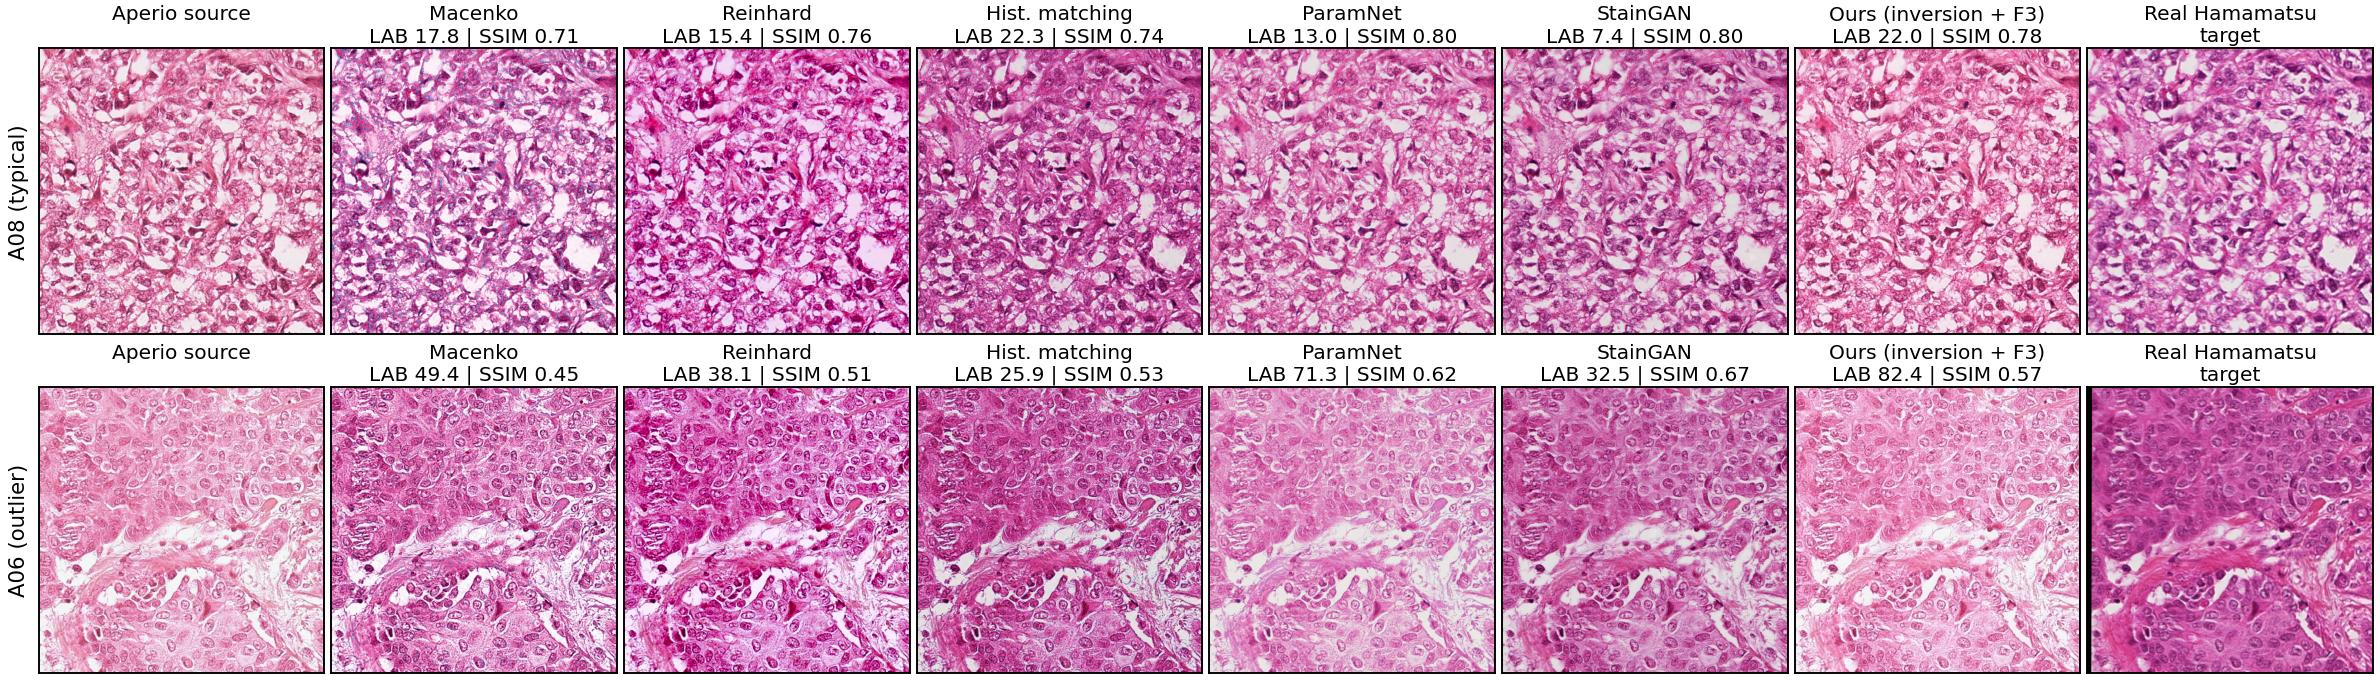
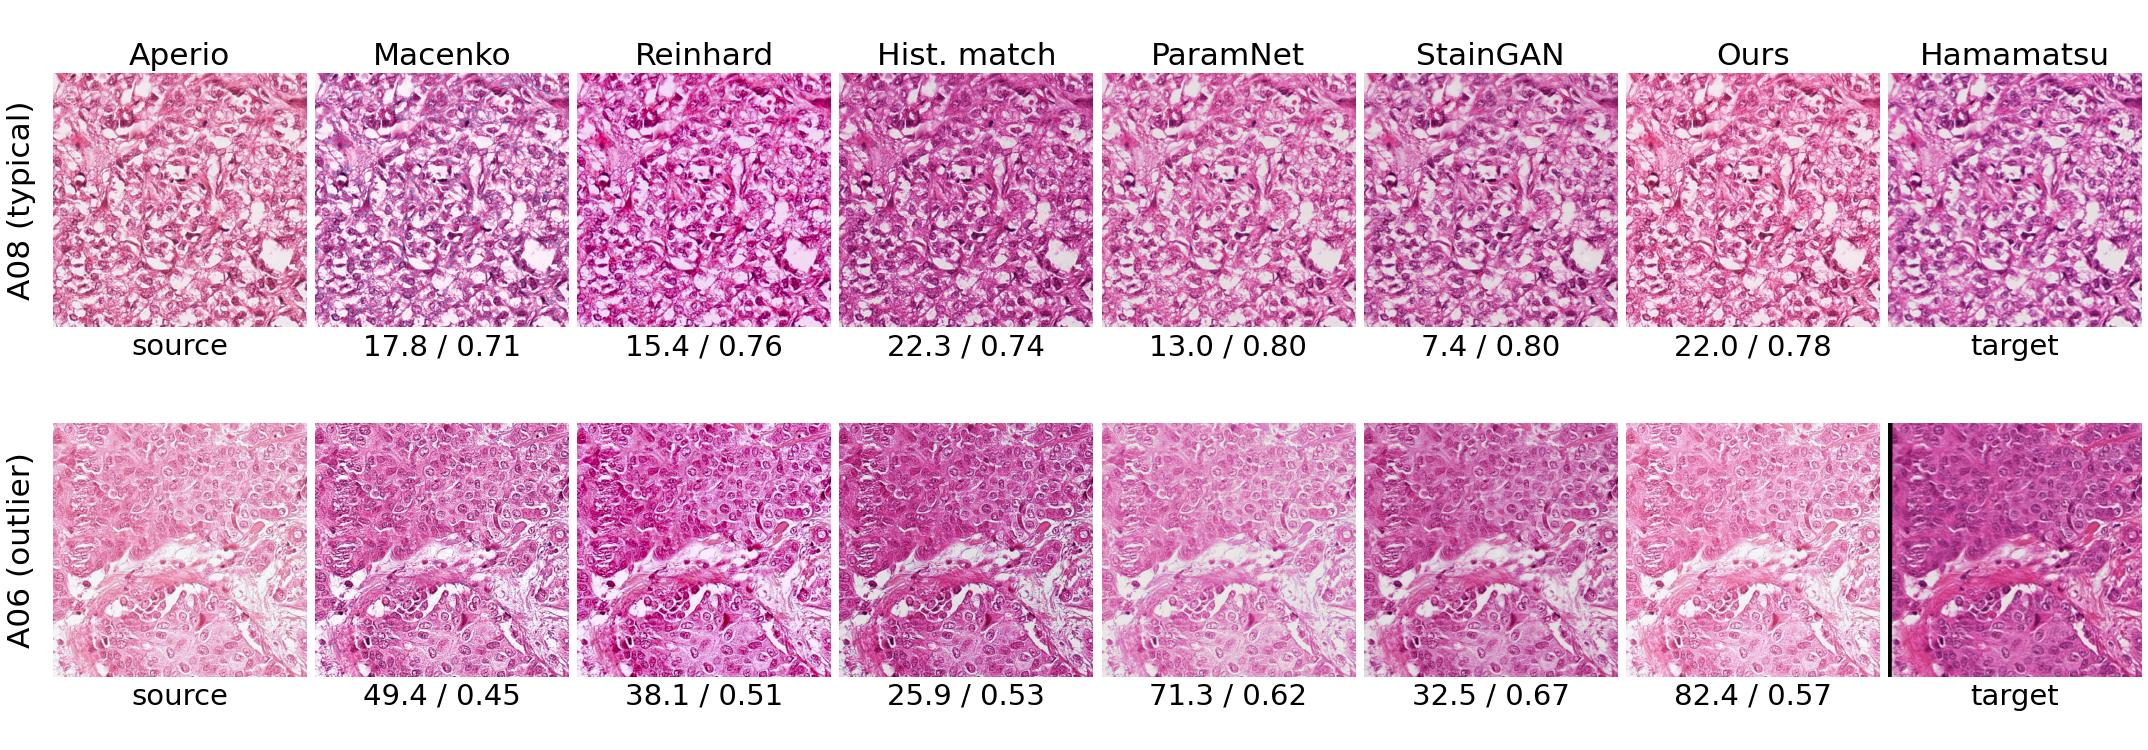
Paper: Fig. 5 redrawn at print width (labels ~7 pt, LAB / SSIM under each tile, legend in caption); training-cost table moved to the appendix; Table IV row and column spacing loosened

diff --git a/docs/report/make_normaliser_comparison.py b/docs/report/make_normaliser_comparison.py
@@ -18,7 +18,7 @@ import matplotlib.pyplot as plt
 R = Path("docs/report/cluster_raw")
 OUT = Path("docs/report/figures")
 CROPS = [("A08_00A_x0_y0", "A08 (typical)"), ("A06_00A_x0_y0", "A06 (outlier)")]
-METHODS = [("macenko", "Macenko"), ("reinhard", "Reinhard"), ("histogram_matching", "Hist. matching"),
+METHODS = [("macenko", "Macenko"), ("reinhard", "Reinhard"), ("histogram_matching", "Hist. match"),
            ("paramnet", "ParamNet"), ("staingan", "StainGAN")]
 
 rgb = lambda p: np.asarray(Image.open(p).convert("RGB"))
@@ -27,24 +27,31 @@ sc = sc.set_index(["method", "slide"])
 f3 = pd.read_csv("docs/results/p1_16_source_fusion/eval/f3_full_heldout/eval_per_crop.csv")
 f3 = f3[(f3.frame == "00A") & (f3.x == 0) & (f3.y == 0)].set_index("slide")
 
-fig, axs = plt.subplots(len(CROPS), 8, figsize=(14.0, 4.1))
+# Drawn at the printed width (7.16 in = IEEE \textwidth), so font sizes are true print sizes. Earlier versions
+# were drawn at 14 in and shrunk to half, which printed the 8.5 pt labels at about 4 pt. Method names sit
+# above the top row only; under each tile is "LAB distance / SSIM" against the target (legend in the caption).
+fig, axs = plt.subplots(len(CROPS), 8, figsize=(7.16, 2.5))
 for ri, (t, row_label) in enumerate(CROPS):
     s = t[:3]
-    tiles = [("Aperio source", rgb(R / f"p1_18/p1_10_ddim_inversion/identity_full_heldout/reference/{t}.png"), "")]
+    tiles = [("Aperio", rgb(R / f"p1_18/p1_10_ddim_inversion/identity_full_heldout/reference/{t}.png"), "source")]
     for key, name in METHODS:
         r = sc.loc[(key, s)]
-        tiles.append((name, rgb(R / f"compare/{key}/outputs/{t}.png"), f"LAB {r.lab:.1f} | SSIM {r.ssim:.2f}"))
+        tiles.append((name, rgb(R / f"compare/{key}/outputs/{t}.png"), f"{r.lab:.1f} / {r.ssim:.2f}"))
     r = f3.loc[s]
-    tiles.append(("Ours (inversion + F3)",
+    tiles.append(("Ours",
                   rgb(R / f"compare/p1_16_fusion/f3_s8_b0.50_heldout_full_corrected/outputs/{t}_seed0_f3_s8_b0.50.png"),
-                  f"LAB {r.lab_total:.1f} | SSIM {r.ssim:.2f}"))
-    tiles.append(("Real Hamamatsu", rgb(R / f"p1_18/p1_15_alt_decoder/p1_18_d1_pn03_full_r2/reference/{t}.png"), "target"))
+                  f"{r.lab_total:.1f} / {r.ssim:.2f}"))
+    tiles.append(("Hamamatsu", rgb(R / f"p1_18/p1_15_alt_decoder/p1_18_d1_pn03_full_r2/reference/{t}.png"), "target"))
     for ci, (name, img, note) in enumerate(tiles):
         ax = axs[ri, ci]
         ax.imshow(img); ax.set_xticks([]); ax.set_yticks([])
-        ax.set_title(f"{name}\n{note}" if note else f"{name}\n ", fontsize=8.5, pad=3)
+        for sp in ax.spines.values():
+            sp.set_visible(False)
+        if ri == 0:
+            ax.set_title(name, fontsize=7.5, pad=2)
+        ax.set_xlabel(note, fontsize=7, labelpad=1.5)
         if ci == 0:
-            ax.set_ylabel(row_label, fontsize=9)
-plt.tight_layout(pad=0.3, h_pad=0.8, w_pad=0.3)
-fig.savefig(OUT / "normaliser_comparison.jpg", dpi=170); plt.close(fig)
+            ax.set_ylabel(row_label, fontsize=7.5)
+plt.tight_layout(pad=0.15, h_pad=0.25, w_pad=0.2)
+fig.savefig(OUT / "normaliser_comparison.jpg", dpi=300); plt.close(fig)
 print("wrote", OUT / "normaliser_comparison.jpg")

diff --git a/report/sections/results.tex b/report/sections/results.tex
@@ -190,8 +190,8 @@ matching ($-5.92$) are slightly worse than doing nothing, and only Macenko gains
 \begin{figure*}[t]
 \centering
 \includegraphics[width=\textwidth]{normaliser_comparison.jpg}
-\caption{One held-out crop each from A08 (typical) and A06 (outlier), normalised by every method, with the
-per-crop LAB Wasserstein and SSIM against the registered target (learned baselines: seed 3407). These are single crops, not averages:
+\caption{One held-out crop each from A08 (typical) and A06 (outlier), normalised by every method. Under each tile:
+its LAB Wasserstein / SSIM against the registered target (Ours: DDIM inversion + F3; learned baselines: seed 3407). These are single crops, not averages:
 on this A08 crop our fused output (LAB 22.0) is weaker than its typical-slide mean (18.1). On A06,
 ParamNet and our output stay visibly paler than the target, while histogram matching, StainGAN and
 Reinhard come closer.}
@@ -284,7 +284,7 @@ source-conditioned rows average three seeds, about 1{,}485 crop-seeds). The 96- 
 the 50-pair budget and are supplementary. \HtoA{} rows are scored against the Aperio scan.}
 \label{tab:sdxl}
 \footnotesize
-\setlength{\tabcolsep}{2.5pt}
+\setlength{\tabcolsep}{3.2pt}\renewcommand{\arraystretch}{1.12}
 \begin{tabular}{lrrrrr}
 \toprule
 & \multicolumn{3}{c}{LAB W. $\downarrow$} & \multicolumn{2}{c}{SSIM $\uparrow$}\\
@@ -317,7 +317,7 @@ Hamamatsu target. All SDXL outputs stay close to the Aperio colour.}
 \end{figure*}
 
 \subsection{Newer backbones (exploratory probes)}
-Both newer backbones are feasible to adapt but not yet useful (Table~\ref{tab:cost}). An SD\,3.5-large
+Both newer backbones are feasible to adapt but not yet useful (Table~\ref{tab:cost}, Appendix~\ref{app:results}). An SD\,3.5-large
 rank-8 LoRA trains in about five times SD\,1.5's time and fits a 24\,GB GPU. On 20 A06 crops at 1024\,px
 (strength 0.30, without the T5 text encoder to save memory) it recovers $\dlab=+4.77$ but reaches only SSIM
 0.183, far below SD\,1.5 and SDXL; because this covers only the outlier slide it is not a general result.
@@ -326,19 +326,3 @@ PixCell is the cheapest backbone to adapt and its 16-channel VAE has the highest
 scores SSIM 0.045 against the registered target and 0.036 against its own source: a single global embedding
 carries no information about where nuclei are (Fig.~\ref{fig:app-pixcell}). Using it for normalisation would
 need a source-image conditioning branch for a diffusion transformer, which was not built.
-
-\begin{table}[t]
-\centering
-\caption{Cost of a rank-8 LoRA, 1{,}000 steps, on one RTX~3090 (exploratory probes).}
-\label{tab:cost}
-\footnotesize
-\begin{tabular}{lrrr}
-\toprule
-& SD\,1.5 & SD\,3.5-large & PixCell\\
-\midrule
-Wall-clock (s) & 160.5 & 798.8 & \textbf{130.3}\\
-Peak VRAM (GB) & -- & 17.77 & \textbf{4.20}\\
-Trainable parameters & 1.59M & 5.91M & 2.06M\\
-\bottomrule
-\end{tabular}
-\end{table}

diff --git a/report/sections/appendix_results.tex b/report/sections/appendix_results.tex
@@ -197,6 +197,25 @@ six comparisons consistent), and SDXL at 1024\,px \HtoA{} remains an open counte
 leans the wrong way, yet it recovers $\dlab=+9.20$.
 
 
+\subsection{Training cost of the exploratory probes}
+Table~\ref{tab:cost} gives the cost of training a rank-8 LoRA on each backbone.
+
+\begin{table}[!tbp]
+\centering
+\caption{Cost of a rank-8 LoRA, 1{,}000 steps, on one RTX~3090 (exploratory probes).}
+\label{tab:cost}
+\footnotesize
+\begin{tabular}{lrrr}
+\toprule
+& SD\,1.5 & SD\,3.5-large & PixCell\\
+\midrule
+Wall-clock (s) & 160.5 & 798.8 & \textbf{130.3}\\
+Peak VRAM (GB) & -- & 17.77 & \textbf{4.20}\\
+Trainable parameters & 1.59M & 5.91M & 2.06M\\
+\bottomrule
+\end{tabular}
+\end{table}
+
 \subsection{Inference speed}
 Table~\ref{tab:app-speed} times every method's per-crop call on one node (RTX~3090, mscluster88) and the
 same held-out Aperio crops, excluding model loading, registration and file input/output: two warm-up crops,
